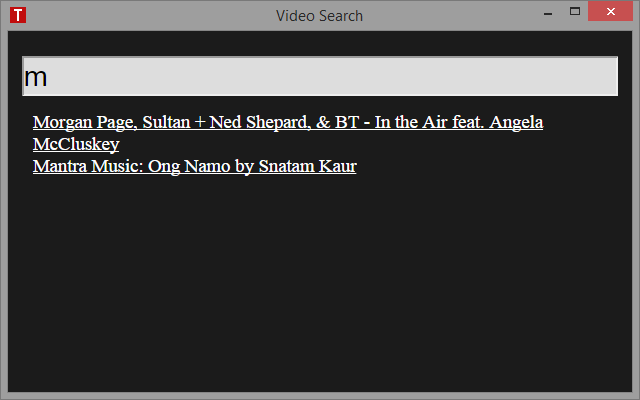
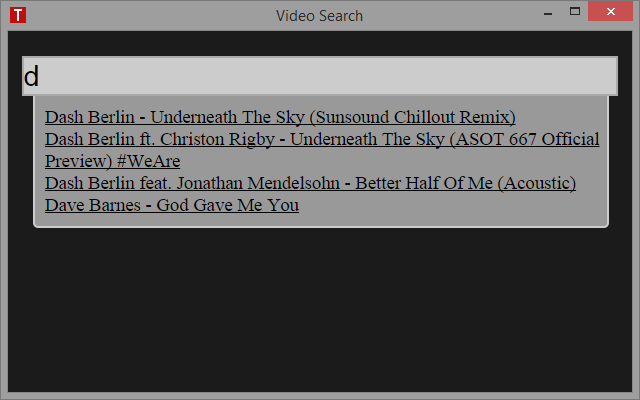
Minor updates
- CSS tweaks
- Screenshots updated
- Default playlist updated

diff --git a/css/app.css b/css/app.css
@@ -15,13 +15,6 @@ h3 {
   left:0;
   visibility: hidden;
 }
-/*#playList {
-  overflow: scroll;
-  position: absolute;
-  width: 100%;
-  height: 100%;
-  display: none;
-}*/
 #searchList {
   text-align: center;
   position: absolute;
@@ -33,15 +26,26 @@ h3 {
   margin-top: 25px;
   font-size: 22pt;
   width: 95%;
-  background-color: #ddd;
+  background-color: #ccc;
+  border: 2px solid #aaa;
   outline: none;
 }
 #searchResults {
+  display: none;
   text-align:left;
   font-size: 14pt;
-  margin-left: 25px;
-  margin-top: 15px;
+  margin-left: 4%;
+  width: 90%;
+  padding-top: 10px;
+  padding-left: 10px;
+  padding-bottom: 10px;
+  border-left: 2px solid #ccc;
+  border-right: 2px solid #ccc;
+  border-bottom: 2px solid #ccc;
+  background-color: #999;
+  border-bottom-right-radius: 5px;
+  border-bottom-left-radius: 5px;
 }
 a {
-  color: #fff;
+  color: #000;
 }
